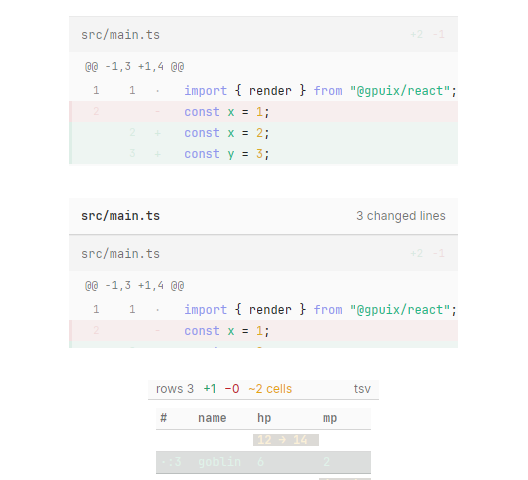
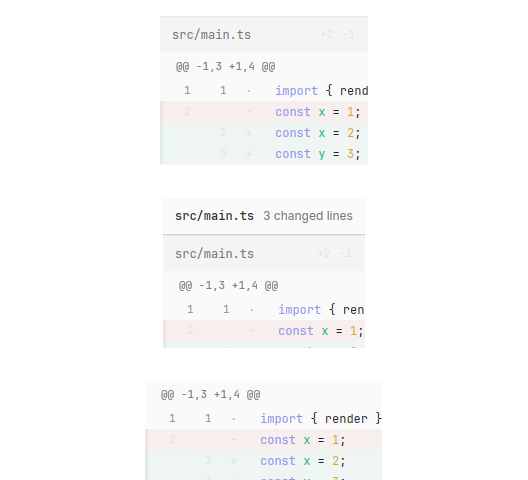
feat(diff-panel): add fileHeader prop to DiffPanel

diff --git a/src/components/vcs/DiffPanel.tsx b/src/components/vcs/DiffPanel.tsx
@@ -5,7 +5,7 @@ import {
   useGpuixRequired,
 } from "@gpuix/react";
 import { useAdwaita } from "../../theme/adwaita";
-import { nativeDiffTheme } from "../../theme/vcs";
+import { FILE_HEADER_ROW_HEIGHT, nativeDiffTheme } from "../../theme/vcs";
 import { T } from "../text";
 import { DataTable } from "../DataTable";
 import { DiffHistogram } from "./DiffHistogram";
@@ -175,6 +175,17 @@ export interface DiffPanelProps {
   header?: boolean;
 
   name?: string | null;
+
+  /**
+   * Paint the diff widget's own per-file header row: the path with the chevron
+   * that collapses the file. Off where the file is already named outside the
+   * diff — a file list, a tool row's own label — where the row only repeats
+   * what is already on screen.
+   *
+   * The widget has no switch for it, so the theme names the row's height and
+   * the body is pulled up that far behind a clip.
+   */
+  fileHeader?: boolean;
 }
 
 export interface DiffSummaryData {
@@ -260,6 +271,7 @@ export function DiffPanel({
   framed = false,
   header = false,
   name = null,
+  fileHeader = true,
 }: DiffPanelProps) {
   const t = useAdwaita();
   useGpuixRequired();
@@ -274,6 +286,27 @@ export function DiffPanel({
   );
   const mono: Partial<StyleDesc> = { fontFamily: t.type.fontFamilyMono };
   const changed = file ? file.added + file.removed : 0;
+  const theme = nativeDiffTheme(
+    t,
+    fileHeader ? undefined : { fileHeaderHeight: FILE_HEADER_ROW_HEIGHT },
+  );
+
+  const body = (
+    <diff
+      ref={diffRef}
+      patch={patch}
+      wordDiff
+      scroll
+      maxLines={MAX_DIFF_LINES}
+      theme={theme}
+      style={{
+        flexGrow: 1,
+        minHeight: 0,
+        alignSelf: "stretch",
+        ...(fileHeader ? {} : { marginTop: -FILE_HEADER_ROW_HEIGHT }),
+      }}
+    />
+  );
 
   return (
     <div
@@ -327,20 +360,22 @@ export function DiffPanel({
           </T>
         </div>
       )}
-      {}
-      <diff
-        ref={diffRef}
-        patch={patch}
-        wordDiff
-        scroll
-        maxLines={MAX_DIFF_LINES}
-        theme={nativeDiffTheme(t)}
-        style={{
-          flexGrow: 1,
-          minHeight: 0,
-          alignSelf: "stretch",
-        }}
-      />
+      {fileHeader ? (
+        body
+      ) : (
+        <div
+          style={{
+            display: "flex",
+            flexDirection: "column",
+            flexGrow: 1,
+            minHeight: 0,
+            alignSelf: "stretch",
+            overflow: "hidden",
+          }}
+        >
+          {body}
+        </div>
+      )}
     </div>
   );
 }

diff --git a/src/components/vcs/DiffPanel.stories.tsx b/src/components/vcs/DiffPanel.stories.tsx
@@ -95,6 +95,11 @@ export const diffs = defineStory({
           <DiffPanel patch={PATCH} framed header />
         </Frame>
       </Labeled>
+      <Labeled caption="no file header (the path is named outside)">
+        <Frame>
+          <DiffPanel patch={PATCH} fileHeader={false} />
+        </Frame>
+      </Labeled>
       <Labeled caption="tabular diff (DataTable)">
         <Frame height={130}>
           <DiffPanel patch="" tabular={TABULAR} />
